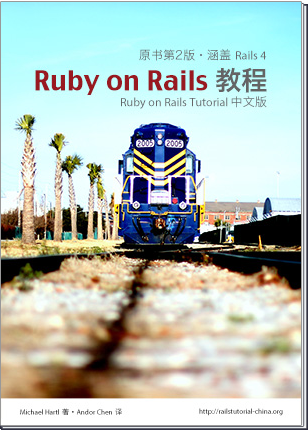
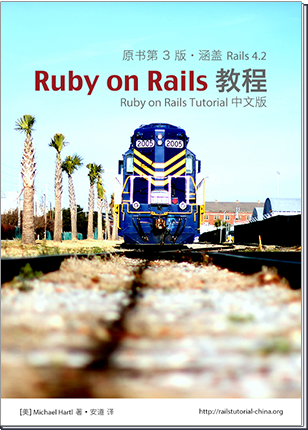
updates for third edition

diff --git a/index.html b/index.html
@@ -11,6 +11,7 @@
     <script src="http://cdn.staticfile.org/jquery/2.1.1/jquery.min.js"></script>
     <script src="http://cdn.staticfile.org/twitter-bootstrap/3.2.0/js/dropdown.min.js"></script>
     <script src="http://cdn.staticfile.org/twitter-bootstrap/3.2.0/js/collapse.min.js"></script>
+    <script src="assets/global.js"></script>
     <link rel="stylesheet" href="http://cdn.staticfile.org/twitter-bootstrap/3.2.0/css/bootstrap.min.css"/>
     <link rel="stylesheet" href="http://cdn.staticfile.org/font-awesome/4.2.0/css/font-awesome.min.css" />
     <link rel="stylesheet" href="assets/style.css"/>
@@ -32,7 +33,7 @@
                 <li class="active"><a href="http://railstutorial-china.org/" title="首页">首页</a></li>
                 <li><a href="http://railstutorial-china.org/read/" title="在线阅读">阅读</a></li>
                 <li><a href="http://railstutorial-china.org/blog/" title="最新消息">博客</a></li>
-                <li><a href="https://selfstore.io/products/2/topics" title="论坛">论坛</a></li>
+                <li><a href="https://selfstore.io/products/189/topics" title="论坛">论坛</a></li>
                 <li class="hidden-xs"><div><a href="#purchase" class="btn btn-warning navbar-btn" title="购买电子书">购买</a></div></li>
             </ul>
         </nav>
@@ -49,12 +50,12 @@
                 <div class="info">
                     <h1 class="title">Ruby on Rails 教程</h1>
                     <h2 class="subtitle">通过 Rails 学习 Web 开发</h2>
-                    <p class="edition">原书第 2 版</p>
+                    <p class="edition">原书第 3 版</p>
                     <div class="description">
-                        <p>这本书讲解如何使用 Ruby on Rails 框架开发应用，以及如何把应用部署到生成环境。书中开发了一个完整的社交应用（类似 Twitter），并且一直践行“测试开发驱动”理念。读完本书后你将掌握如何使用 Rails 从零开始开发任何类型的应用。这本书是《Ruby on Rails Tutorial， Second Edition》的简体中文版，由作者授权翻译和销售。</p>
+                        <p>这本书讲解如何使用 Ruby on Rails 框架开发应用，以及如何把应用部署到生成环境。本书使用 Rails 默认的开发工具栈开发了一个完整的社交应用（类似 Twitter）。读完本书后你将掌握如何使用 Rails 从零开始开发任何类型的应用。这本书是《Ruby on Rails Tutorial, Third Edition》的简体中文版，由作者授权翻译和销售。</p>
                     </div>
                     <div class="actions">
-                        <a href="https://selfstore.io/products/2" class="btn btn-warning" title="购买电子书">购买电子书</a>
+                        <a href="#purchase" class="btn btn-warning" title="购买电子书">购买电子书</a>
                         <!--a href="" class="btn btn-default">样章试读</a-->
                     </div>
                     <div class="news">
@@ -109,17 +110,11 @@
                 <img src="assets/images/selfstore-logo.png" alt="SelfStore" title="SelfStore" />
             </div>
             <div class="col-lg-3 col-md-4 col-sm-6 col-xs-9">
-                <p class="bigger">Ruby on Rails 教程（原书第 2 版）</p>
+                <p class="bigger">Ruby on Rails 教程（原书第 3 版）</p>
                 <p class="notes">包含 PDF，ePub，mobi 三种格式</p>
-                <p>每种格式可也可单独购买：</p>
-                <ul>
-                    <li><a href="https://selfstore.io/products/7" title="购买 PDF 格式">PDF 格式</a>
-                    <li><a href="https://selfstore.io/products/6" title="购买 ePub 格式">ePub 格式</a>
-                    <li><a href="https://selfstore.io/products/68" title="购买 mobi 格式">mobi 格式</a>
-                </ul>
             </div>
             <div class="col-lg-1 col-md-1 col-sm-3 col-xs-3">
-                <p><a href="https://selfstore.io/products/2" class="btn btn-warning" title="到 SelfStore 购买电子书">购买</a></p>
+                <p><a href="https://selfstore.io/products/189" class="btn btn-warning" title="到 SelfStore 购买电子书">购买</a></p>
                 <p class="payments"><img src="assets/images/alipay.png" alt="支付宝" title="支付宝" /></p>
             </div>
         </div>
@@ -129,26 +124,64 @@
                 <img src="assets/images/sellfy-logo.png" alt="Sellfy" title="Sellfy" />
             </div>
             <div class="col-lg-3 col-md-4 col-sm-6 col-xs-9">
-                <p class="bigger">Ruby on Rails 教程（原书第 2 版）</p>
+                <p class="bigger">Ruby on Rails 教程（原书第 3 版）</p>
                 <p class="notes">包含 PDF，ePub，mobi 三种格式</p>
             </div>
             <div class="col-lg-1 col-md-1 col-sm-3 col-xs-3">
-                <p><a href="https://sellfy.com/p/qwyU/" class="btn btn-warning"  title="到 Sellfy 购买电子书">购买</a></p>
+                <p><a href="https://sellfy.com/p/Lw8D" class="btn btn-warning"  title="到 Sellfy 购买电子书">购买</a></p>
                 <p class="payments"><img src="assets/images/paypal.png" alt="PayPal" title="PayPal" /></p>
             </div>
         </div>
 
-        <div id="ituring" class="row">
-            <div class="col-lg-offset-3 col-lg-2 col-md-offset-2 col-md-2 col-sm-3 hidden-xs">
-                <img src="assets/images/ituring-logo.png" alt="图灵社区" title="图灵社区" />
+        <div class="text-center"><a id="older" class="btn btn-default" href="#">购买第 2 版？</a></div>
+
+        <div id="purchase-older">
+            <div id="selfstore" class="row">
+                <div class="col-lg-offset-3 col-lg-2 col-md-offset-2 col-md-2 col-sm-3 hidden-xs">
+                    <img src="assets/images/selfstore-logo.png" alt="SelfStore" title="SelfStore" />
+                </div>
+                <div class="col-lg-3 col-md-4 col-sm-6 col-xs-9">
+                    <p class="bigger">Ruby on Rails 教程（原书第 2 版）</p>
+                    <p class="notes">包含 PDF，ePub，mobi 三种格式</p>
+                    <p>每种格式可也可单独购买：</p>
+                    <ul>
+                        <li><a href="https://selfstore.io/products/7" title="购买 PDF 格式">PDF 格式</a>
+                        <li><a href="https://selfstore.io/products/6" title="购买 ePub 格式">ePub 格式</a>
+                        <li><a href="https://selfstore.io/products/68" title="购买 mobi 格式">mobi 格式</a>
+                    </ul>
+                </div>
+                <div class="col-lg-1 col-md-1 col-sm-3 col-xs-3">
+                    <p><a href="https://selfstore.io/products/2" class="btn btn-warning" title="到 SelfStore 购买电子书">购买</a></p>
+                    <p class="payments"><img src="assets/images/alipay.png" alt="支付宝" title="支付宝" /></p>
+                </div>
             </div>
-            <div class="col-lg-3 col-md-4 col-sm-6 col-xs-9">
-                <p class="bigger">Ruby on Rails 教程（原书第 2 版）</p>
-                <p class="notes">包含 PDF，mobi 两种格式</p>
+
+            <div id="sellfy" class="row">
+                <div class="col-lg-offset-3 col-lg-2 col-md-offset-2 col-md-2 col-sm-3 hidden-xs">
+                    <img src="assets/images/sellfy-logo.png" alt="Sellfy" title="Sellfy" />
+                </div>
+                <div class="col-lg-3 col-md-4 col-sm-6 col-xs-9">
+                    <p class="bigger">Ruby on Rails 教程（原书第 2 版）</p>
+                    <p class="notes">包含 PDF，ePub，mobi 三种格式</p>
+                </div>
+                <div class="col-lg-1 col-md-1 col-sm-3 col-xs-3">
+                    <p><a href="https://sellfy.com/p/qwyU/" class="btn btn-warning"  title="到 Sellfy 购买电子书">购买</a></p>
+                    <p class="payments"><img src="assets/images/paypal.png" alt="PayPal" title="PayPal" /></p>
+                </div>
             </div>
-            <div class="col-lg-1 col-md-1 col-sm-3 col-xs-3">
-                <p><a href="http://www.ituring.com.cn/book/1333" class="btn btn-warning"  title="到图灵社区购买电子书">购买</a></p>
-                <p class="payments"><img src="assets/images/alipay.png" alt="支付宝" title="支付宝" /></p>
+
+            <div id="ituring" class="row">
+                <div class="col-lg-offset-3 col-lg-2 col-md-offset-2 col-md-2 col-sm-3 hidden-xs">
+                    <img src="assets/images/ituring-logo.png" alt="图灵社区" title="图灵社区" />
+                </div>
+                <div class="col-lg-3 col-md-4 col-sm-6 col-xs-9">
+                    <p class="bigger">Ruby on Rails 教程（原书第 2 版）</p>
+                    <p class="notes">包含 PDF，mobi 两种格式</p>
+                </div>
+                <div class="col-lg-1 col-md-1 col-sm-3 col-xs-3">
+                    <p><a href="http://www.ituring.com.cn/book/1333" class="btn btn-warning"  title="到图灵社区购买电子书">购买</a></p>
+                    <p class="payments"><img src="assets/images/alipay.png" alt="支付宝" title="支付宝" /></p>
+                </div>
             </div>
         </div>
     </div>
@@ -162,16 +195,16 @@
         <div class="row">
             <div class="col-lg-offset-3 col-lg-6 col-md-offset-2 col-md-8 col-sm-12 col-xs-12">
                 <h3>这本书支持 Rails 最新版吗？</h3>
-                <p>目前这本书支持 Rails 4.0（支持 Rails 4.2 的原书第 3 版正在翻译中）。如果 Rails 有升级，这本书也会相应升级。</p>
+                <p>目前这本书支持 Rails 4.2。如果 Rails 有升级，本书会随英文原书一起升级。</p>
 
                 <h3>购买后会有更新吗？如何下载更新后的电子书呢？</h3>
                 <p>只要英文版有更新，中文版就会在最短的时间内跟进。而且，我自己有时也会修正翻译的错误。如果有更新，你会收到电子邮件提醒。在你收到的邮件中有下载方式说明。</p>
 
                 <h3>在阅读的过程中遇到问题无法解决怎么办？</h3>
-                <p>如果你遇到的是 Rails 相关的问题，可以到 <a href="https://ruby-china.org/topics" title="Ruby China 社区">Ruby China 社区</a>寻找帮助。也可以到本书的<a href="https://selfstore.io/products/2/topics" title="论坛">论坛</a>中发帖，我会尽量帮助你。</p>
+                <p>如果你遇到的是 Rails 相关的问题，可以到 <a href="https://ruby-china.org/topics" title="Ruby China 社区">Ruby China 社区</a>寻找帮助。也可以到本书的<a href="https://selfstore.io/products/189/topics" title="论坛">论坛</a>中发帖，我会尽量帮助你。</p>
 
                 <h3>我可以把电子书分享给别人吗？</h3>
-                <p>本书没有 DRM 限制，只是为了方便你在不同的设备中阅读。请尊重作者和译者的劳动成果，不要把电子书分享给别人。但是你可以分享给你的家人，共同学习共同进步。</p>
+                <p>本书没有 DRM 限制，是为了方便你在不同的设备中阅读。请尊重作者和译者的劳动成果，不要把电子书分享给别人。但是你可以分享给你的家人，共同学习共同进步。</p>
 
                 <h3>怎么联系你呢？</h3>
                 <p>你可以在 <a href="https://twitter.com/andor_chen" title="安道的 Twitter">Twitter</a> 或<a href="http://weibo.com/andor27" title="安道的微博">微博</a>上和我联系，也可以给我发<a href="mailto:andorchen.27@gmail.com" title="安道的电子邮件">电子邮件</a>。</p>

diff --git a/assets/global.js b/assets/global.js
@@ -1,0 +1,6 @@
+$(document).ready(function(){
+    $('#older').click(function(){
+        $('#purchase-older').toggle();
+        return false;
+    });
+});

diff --git a/assets/style.css b/assets/style.css
@@ -124,6 +124,10 @@ a.anchor{
     padding: 20px 0;
 }
 
+#purchase-older {
+    display: none;
+}
+
 .bigger {
     font-size: 16px;
     font-weight: 900;
